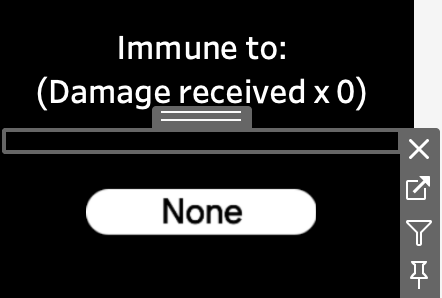
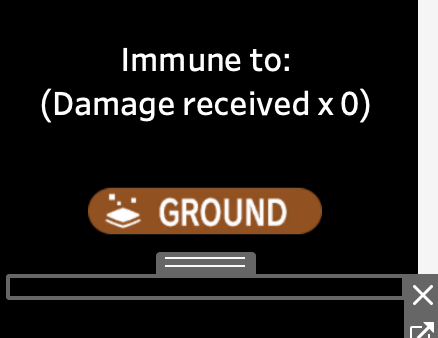
feat: documentation

Changed region(s): [[0.0, 0.0, 1.0, 1.0], [0.2671, 0.1208, 0.6826, 0.2114]]

diff --git a/Pokemon/Documentation.md b/Pokemon/Documentation.md
@@ -140,3 +140,6 @@ Resistant None:
 AVG({FIXED [Name],[Name (Type Names.Csv2)]: IF [Damage]>25 AND [Damage]<100
 THEN 1 ELSE 0 END})
 ```
+
+![Alt text](https://github.com/TalexJuarezProject/Tableau-proyects/blob/main/Pokemon/Data/eff_1.png)
+![Alt text](https://github.com/TalexJuarezProject/Tableau-proyects/blob/main/Pokemon/Data/eff_2.png)
